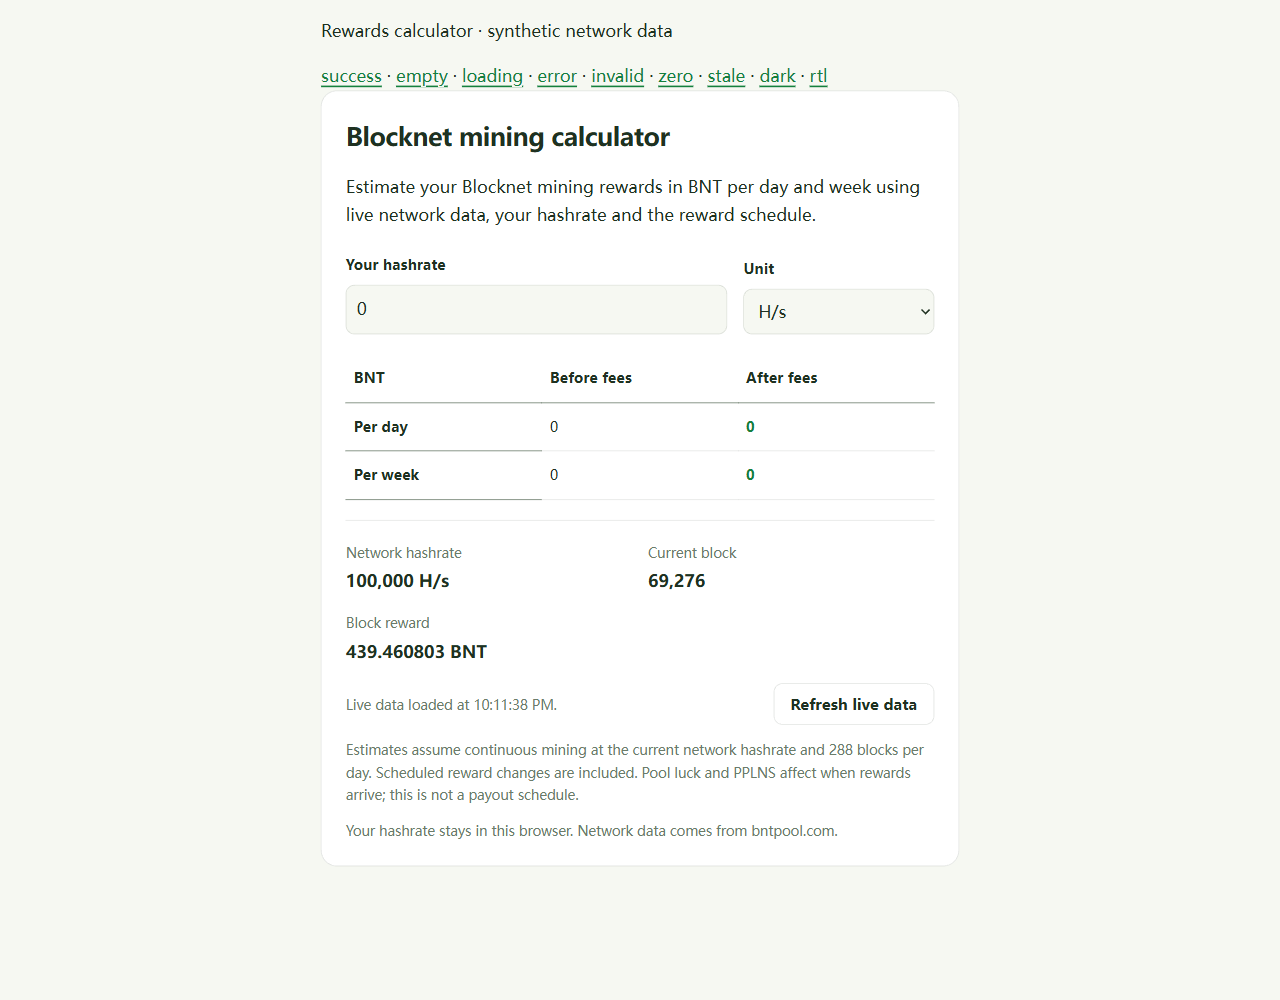
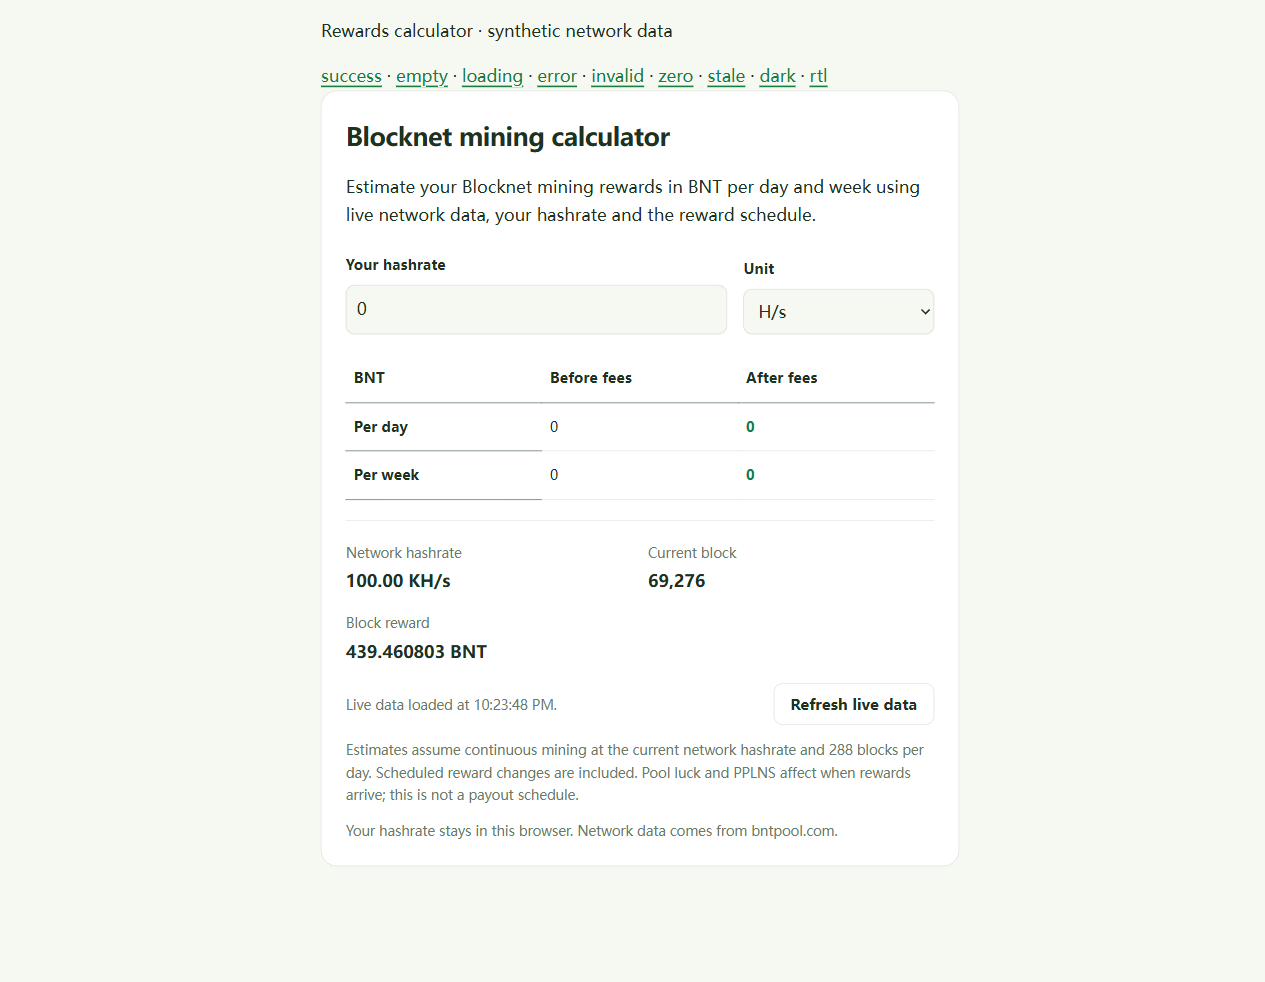
Refresh calculator showcase for scaled hashrate display

diff --git a/frontend/showcases/rewards-calculator/index.html b/frontend/showcases/rewards-calculator/index.html
@@ -1,1 +1,1 @@
-<!doctype html><html lang="en"><meta charset="utf-8"><meta name="viewport" content="width=device-width,initial-scale=1"><title>Rewards calculator showcase</title><style>body{font:16px system-ui;margin:32px;background:#f6f8f2;color:#1f3121}main{max-width:1200px;margin:auto}.pair{display:grid;grid-template-columns:2fr 1fr;gap:16px}figure{margin:0}img{width:100%;border:1px solid #ccc}code{overflow-wrap:anywhere}@media(max-width:600px){.pair{grid-template-columns:1fr}}</style><main><h1>Rewards calculator</h1><p>Fee controls and details removed; gross and net estimates retained.</p><p>Source: <code>7711c5289cda7e8b4ebcf381a4a6011658298594</code>. Synthetic data. Captured and reviewed October 26, 2026 (EDT).</p><h2>success</h2><div class="pair"><figure><a href="captures/rewards-success-desktop.png"><img src="captures/rewards-success-desktop.png" alt="success desktop"></a><figcaption>desktop</figcaption></figure><figure><a href="captures/rewards-success-mobile.png"><img src="captures/rewards-success-mobile.png" alt="success mobile"></a><figcaption>mobile</figcaption></figure></div><h2>empty</h2><div class="pair"><figure><a href="captures/rewards-empty-desktop.png"><img src="captures/rewards-empty-desktop.png" alt="empty desktop"></a><figcaption>desktop</figcaption></figure><figure><a href="captures/rewards-empty-mobile.png"><img src="captures/rewards-empty-mobile.png" alt="empty mobile"></a><figcaption>mobile</figcaption></figure></div><h2>loading</h2><div class="pair"><figure><a href="captures/rewards-loading-desktop.png"><img src="captures/rewards-loading-desktop.png" alt="loading desktop"></a><figcaption>desktop</figcaption></figure><figure><a href="captures/rewards-loading-mobile.png"><img src="captures/rewards-loading-mobile.png" alt="loading mobile"></a><figcaption>mobile</figcaption></figure></div><h2>error</h2><div class="pair"><figure><a href="captures/rewards-error-desktop.png"><img src="captures/rewards-error-desktop.png" alt="error desktop"></a><figcaption>desktop</figcaption></figure><figure><a href="captures/rewards-error-mobile.png"><img src="captures/rewards-error-mobile.png" alt="error mobile"></a><figcaption>mobile</figcaption></figure></div><h2>invalid</h2><div class="pair"><figure><a href="captures/rewards-invalid-desktop.png"><img src="captures/rewards-invalid-desktop.png" alt="invalid desktop"></a><figcaption>desktop</figcaption></figure><figure><a href="captures/rewards-invalid-mobile.png"><img src="captures/rewards-invalid-mobile.png" alt="invalid mobile"></a><figcaption>mobile</figcaption></figure></div><h2>zero</h2><div class="pair"><figure><a href="captures/rewards-zero-desktop.png"><img src="captures/rewards-zero-desktop.png" alt="zero desktop"></a><figcaption>desktop</figcaption></figure><figure><a href="captures/rewards-zero-mobile.png"><img src="captures/rewards-zero-mobile.png" alt="zero mobile"></a><figcaption>mobile</figcaption></figure></div><h2>stale</h2><div class="pair"><figure><a href="captures/rewards-stale-desktop.png"><img src="captures/rewards-stale-desktop.png" alt="stale desktop"></a><figcaption>desktop</figcaption></figure><figure><a href="captures/rewards-stale-mobile.png"><img src="captures/rewards-stale-mobile.png" alt="stale mobile"></a><figcaption>mobile</figcaption></figure></div><h2>dark</h2><div class="pair"><figure><a href="captures/rewards-dark-desktop.png"><img src="captures/rewards-dark-desktop.png" alt="dark desktop"></a><figcaption>desktop</figcaption></figure><figure><a href="captures/rewards-dark-mobile.png"><img src="captures/rewards-dark-mobile.png" alt="dark mobile"></a><figcaption>mobile</figcaption></figure></div><h2>rtl</h2><div class="pair"><figure><a href="captures/rewards-rtl-desktop.png"><img src="captures/rewards-rtl-desktop.png" alt="rtl desktop"></a><figcaption>desktop</figcaption></figure><figure><a href="captures/rewards-rtl-mobile.png"><img src="captures/rewards-rtl-mobile.png" alt="rtl mobile"></a><figcaption>mobile</figcaption></figure></div></main></html>
+<!doctype html><html lang="en"><meta charset="utf-8"><meta name="viewport" content="width=device-width,initial-scale=1"><title>Rewards calculator showcase</title><style>body{font:16px system-ui;margin:32px;background:#f6f8f2;color:#1f3121}main{max-width:1200px;margin:auto}.pair{display:grid;grid-template-columns:2fr 1fr;gap:16px}figure{margin:0}img{width:100%;border:1px solid #ccc}code{overflow-wrap:anywhere}@media(max-width:600px){.pair{grid-template-columns:1fr}}</style><main><h1>Rewards calculator</h1><p>Network hashrate uses scaled H/s, KH/s, MH/s, GH/s, TH/s and PH/s units with two decimal places.</p><p>Source: <code>789495d</code>. Synthetic data. Captured and reviewed October 26, 2026 (EDT).</p><h2>success</h2><div class="pair"><figure><a href="captures/rewards-success-desktop.png"><img src="captures/rewards-success-desktop.png" alt="success desktop"></a><figcaption>desktop</figcaption></figure><figure><a href="captures/rewards-success-mobile.png"><img src="captures/rewards-success-mobile.png" alt="success mobile"></a><figcaption>mobile</figcaption></figure></div><h2>empty</h2><div class="pair"><figure><a href="captures/rewards-empty-desktop.png"><img src="captures/rewards-empty-desktop.png" alt="empty desktop"></a><figcaption>desktop</figcaption></figure><figure><a href="captures/rewards-empty-mobile.png"><img src="captures/rewards-empty-mobile.png" alt="empty mobile"></a><figcaption>mobile</figcaption></figure></div><h2>loading</h2><div class="pair"><figure><a href="captures/rewards-loading-desktop.png"><img src="captures/rewards-loading-desktop.png" alt="loading desktop"></a><figcaption>desktop</figcaption></figure><figure><a href="captures/rewards-loading-mobile.png"><img src="captures/rewards-loading-mobile.png" alt="loading mobile"></a><figcaption>mobile</figcaption></figure></div><h2>error</h2><div class="pair"><figure><a href="captures/rewards-error-desktop.png"><img src="captures/rewards-error-desktop.png" alt="error desktop"></a><figcaption>desktop</figcaption></figure><figure><a href="captures/rewards-error-mobile.png"><img src="captures/rewards-error-mobile.png" alt="error mobile"></a><figcaption>mobile</figcaption></figure></div><h2>invalid</h2><div class="pair"><figure><a href="captures/rewards-invalid-desktop.png"><img src="captures/rewards-invalid-desktop.png" alt="invalid desktop"></a><figcaption>desktop</figcaption></figure><figure><a href="captures/rewards-invalid-mobile.png"><img src="captures/rewards-invalid-mobile.png" alt="invalid mobile"></a><figcaption>mobile</figcaption></figure></div><h2>zero</h2><div class="pair"><figure><a href="captures/rewards-zero-desktop.png"><img src="captures/rewards-zero-desktop.png" alt="zero desktop"></a><figcaption>desktop</figcaption></figure><figure><a href="captures/rewards-zero-mobile.png"><img src="captures/rewards-zero-mobile.png" alt="zero mobile"></a><figcaption>mobile</figcaption></figure></div><h2>stale</h2><div class="pair"><figure><a href="captures/rewards-stale-desktop.png"><img src="captures/rewards-stale-desktop.png" alt="stale desktop"></a><figcaption>desktop</figcaption></figure><figure><a href="captures/rewards-stale-mobile.png"><img src="captures/rewards-stale-mobile.png" alt="stale mobile"></a><figcaption>mobile</figcaption></figure></div><h2>dark</h2><div class="pair"><figure><a href="captures/rewards-dark-desktop.png"><img src="captures/rewards-dark-desktop.png" alt="dark desktop"></a><figcaption>desktop</figcaption></figure><figure><a href="captures/rewards-dark-mobile.png"><img src="captures/rewards-dark-mobile.png" alt="dark mobile"></a><figcaption>mobile</figcaption></figure></div><h2>rtl</h2><div class="pair"><figure><a href="captures/rewards-rtl-desktop.png"><img src="captures/rewards-rtl-desktop.png" alt="rtl desktop"></a><figcaption>desktop</figcaption></figure><figure><a href="captures/rewards-rtl-mobile.png"><img src="captures/rewards-rtl-mobile.png" alt="rtl mobile"></a><figcaption>mobile</figcaption></figure></div></main></html>

diff --git a/frontend/showcases/rewards-calculator/README.md b/frontend/showcases/rewards-calculator/README.md
@@ -1,15 +1,15 @@
 # Rewards calculator showcase
 
-Source revision: `7711c5289cda7e8b4ebcf381a4a6011658298594`.
+Source revision: `789495d`.
 
 The production calculator and stylesheet are rendered with synthetic network data.
 All 18 desktop (1280px) and mobile (390px) screenshots were reviewed. States cover
 success, empty, loading/disabled, API error, invalid input, zero hashrate, stale data,
 dark theme, and Arabic RTL. No horizontal overflow was observed.
 
-The miner fee field, release fee note, pool fee readout and fee formula are removed
-in all 20 languages. Gross/net results retain the existing fee deductions using
-the reviewed release's miner fee and API-provided pool fee.
+Network hashrate uses the same scaled units and two decimal places as the pool
+dashboard. Reward calculations and input units are unchanged. Browser checks
+covered H/s through PH/s, including the 1000 H/s boundary.
 
 Validation: 21 frontend tests, TypeScript, translation checks, blog checks and
 production build passed. Browser input changes recalculated results correctly.
